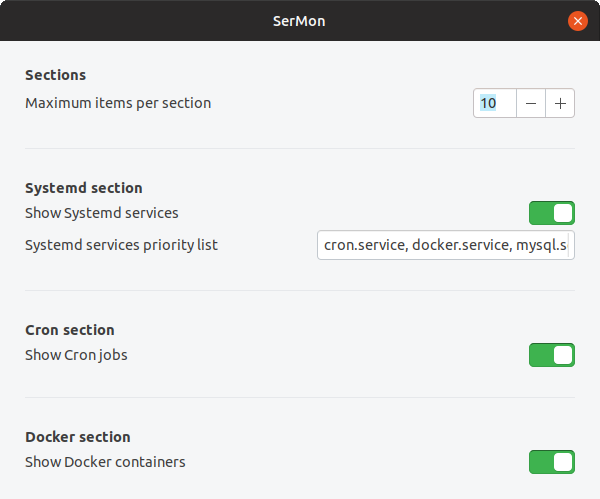
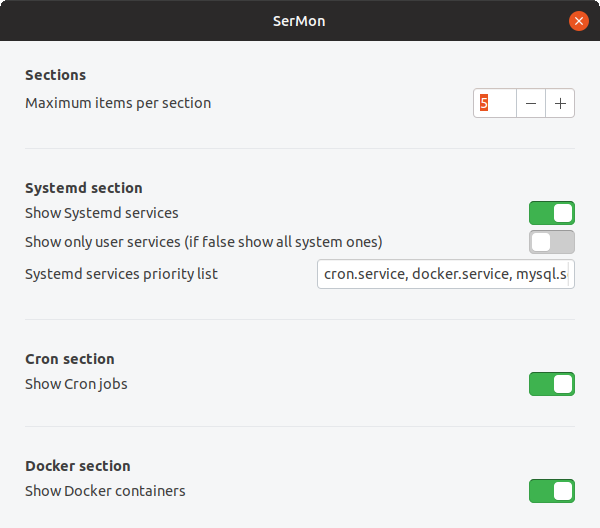
Add option to filter systemd services per system or user

diff --git a/src/data/systemdRepository.js b/src/data/systemdRepository.js
@@ -9,10 +9,13 @@ const Settings = Me.imports.src.data.settings;
 const LOGTAG = "SystemdRepository";
 
 const PROGRAM = "systemctl";
-const COMMAND_LIST_ALL = "systemctl list-units --type=service --all";
+const COMMAND_LIST_ALL = "systemctl list-units --type=service --all --system";
+const COMMAND_LIST_USER = "systemctl list-units --type=service --all --user";
 const COMMAND_TEMPLATE_ID_PARAM = "%id%";
 const COMMAND_TEMPLATE_START = `systemctl start ${COMMAND_TEMPLATE_ID_PARAM} --type=service`;
+const COMMAND_TEMPLATE_START_USER = `systemctl start ${COMMAND_TEMPLATE_ID_PARAM} --type=service --user`;
 const COMMAND_TEMPLATE_STOP = `systemctl stop ${COMMAND_TEMPLATE_ID_PARAM} --type=service`;
+const COMMAND_TEMPLATE_STOP_USER = `systemctl stop ${COMMAND_TEMPLATE_ID_PARAM} --type=service --user`;
 const LIST_ROWS_SEPARATOR = "\n";
 const LIST_COLUMNS_SEPARATOR = " ";
 const LIST_EMPTY_LINE = "";
@@ -38,7 +41,8 @@ var isSystemdInstalled = () => CommandLine.find(PROGRAM) !== null;
  */
 /* exported getServices */
 var getServices = () => new Promise((resolve, reject) => {
-    CommandLine.execute(COMMAND_LIST_ALL)
+    const command = Settings.shouldFilterSystemdUserServices() ? COMMAND_LIST_USER : COMMAND_LIST_ALL;
+    CommandLine.execute(command)
         .then(result => {
             const services = parseServices(result)
                 .sort((item1, item2) => _sortByRunningStatus(item1, item2))
@@ -60,7 +64,10 @@ var getServices = () => new Promise((resolve, reject) => {
  * @return {Promise} resolves if systemd service is started, or fails if an error occur
  */
 /* exported startService */
-var startService = (id) => _runCommandFromTemplate(COMMAND_TEMPLATE_START, id);
+var startService = (id) => _runCommandFromTemplate(
+    Settings.shouldFilterSystemdUserServices() ? COMMAND_TEMPLATE_START_USER : COMMAND_TEMPLATE_START,
+    id
+);
 
 /**
  * Stop systemd service.
@@ -69,7 +76,10 @@ var startService = (id) => _runCommandFromTemplate(COMMAND_TEMPLATE_START, id);
  * @return {Promise} resolves if systemd service is started, or fails if an error occur
  */
 /* exported stopService */
-var stopService = (id) => _runCommandFromTemplate(COMMAND_TEMPLATE_STOP, id);
+var stopService = (id) => _runCommandFromTemplate(
+    Settings.shouldFilterSystemdUserServices() ? COMMAND_TEMPLATE_STOP_USER : COMMAND_TEMPLATE_STOP,
+    id
+);
 
 const _runCommandFromTemplate = (commandTemplate, id) => new Promise((resolve, reject) => {
     const command = commandTemplate.replace(COMMAND_TEMPLATE_ID_PARAM, id);
@@ -89,8 +99,10 @@ const _runCommandFromTemplate = (commandTemplate, id) => new Promise((resolve, r
 const _buildCommandMessageFromTemplate = (commandTemplate) => {
     switch (commandTemplate) {
     case COMMAND_TEMPLATE_START:
+    case COMMAND_TEMPLATE_START_USER:
         return "started";
     case COMMAND_TEMPLATE_STOP:
+    case COMMAND_TEMPLATE_STOP_USER:
         return "stopped";
     default:
         return "???";

diff --git a/test/data/systemdRepositoryTest.js b/test/data/systemdRepositoryTest.js
@@ -3,7 +3,7 @@
 // Import dummy/fake Gjs implementations:
 imports.searchPath.push("./test/util/fake");
 const CommandLineMock = imports.misc.Me.imports.src.data.datasource.commandLine;
-//const SettingsMock = imports.misc.Me.imports.src.data.settings;
+const SettingsMock = imports.misc.Me.imports.src.data.settings;
 
 const GjsMockito = imports.test.util.gjsMockito;
 const when = GjsMockito.when;
@@ -16,6 +16,8 @@ function testSuite() {
 
     const ANY_PATH = "~/any/path/to/systemd";
     const NO_PATH = null;
+    const ALL_SERVICES = false;
+    const ONLY_USER_SERVICES = true;
     const ANY_SERVICES = 
         "UNIT                                                                                      LOAD   ACTIVE SUB     DESCRIPTION\n" +
         "apparmor.service                                                                          loaded    active   exited  AppArmor initialization\n" +
@@ -58,14 +60,26 @@ function testSuite() {
     });
 
     describe("SystemdRepository.getServices()", () => {
-        it("when retrieving the systemd services, systemctl list is executed", () => {
+        it("when retrieving all systemd services, systemctl list-units --system is executed", () => {
             const anyResolvedPromise = new Promise((resolve) => resolve(ANY_SERVICES));
             when(CommandLineMock, "execute").thenReturn(anyResolvedPromise);
+            when(SettingsMock, "shouldFilterSystemdUserServices").thenReturn(ALL_SERVICES);
 
             sut.getServices()
                 .catch(_ => {});
 
-            expectMock(CommandLineMock, "execute").toHaveBeenCalledWith("systemctl list-units --type=service --all");
+            expectMock(CommandLineMock, "execute").toHaveBeenCalledWith("systemctl list-units --type=service --all --system");
+        });
+
+        it("when retrieving only systemd user services, systemctl list-units --user is executed", () => {
+            const anyResolvedPromise = new Promise((resolve) => resolve(ANY_SERVICES));
+            when(CommandLineMock, "execute").thenReturn(anyResolvedPromise);
+            when(SettingsMock, "shouldFilterSystemdUserServices").thenReturn(ONLY_USER_SERVICES);
+
+            sut.getServices()
+                .catch(_ => {});
+
+            expectMock(CommandLineMock, "execute").toHaveBeenCalledWith("systemctl list-units --type=service --all --user");
         });
 
         // it("when no systemd service is found, returns an error", () => {});

diff --git a/prefs.js b/prefs.js
@@ -33,6 +33,7 @@ const _bindWidgetToSettings = (builder) => {
     const settings = Convenience.getSettings();
     settings.bind("max-items-per-section", builder.get_object("field_max_items_per_section"), "value", Gio.SettingsBindFlags.DEFAULT);
     settings.bind("systemd-section-enabled", builder.get_object("field_systemd_section_enabled"), "active", Gio.SettingsBindFlags.DEFAULT);
+    settings.bind("systemd-section-filter-user-services", builder.get_object("field_systemd_section_filter_user_services"), "active", Gio.SettingsBindFlags.DEFAULT);
     settings.bind("systemd-section-items-priority-list", builder.get_object("field_systemd_section_items_priority_list"), "text", Gio.SettingsBindFlags.DEFAULT);
     settings.bind("cron-section-enabled", builder.get_object("field_cron_section_enabled"), "active", Gio.SettingsBindFlags.DEFAULT);
     settings.bind("docker-section-enabled", builder.get_object("field_docker_section_enabled"), "active", Gio.SettingsBindFlags.DEFAULT);

diff --git a/src/data/settings.js b/src/data/settings.js
@@ -12,6 +12,9 @@ var getMaxItemsPerSection = () => Convenience.getSettings().get_int("max-items-p
 /* exported isSystemdSectionEnabled */
 var isSystemdSectionEnabled = () => Convenience.getSettings().get_boolean("systemd-section-enabled");
 
+/* exported shouldFilterSystemdUserServices */
+var shouldFilterSystemdUserServices = () => Convenience.getSettings().get_boolean("systemd-section-filter-user-services");
+
 /* exported getSystemdSectionItemsPriorityList */
 var getSystemdSectionItemsPriorityList = () => mapCommaSeparatedListIntoArray(
     Convenience.getSettings().get_string("systemd-section-items-priority-list")

diff --git a/test/util/fake/misc.js b/test/util/fake/misc.js
@@ -45,6 +45,7 @@ var Me = {
                 settings: mock("Settings", [
                     "getMaxItemsPerSection",
                     "isSystemdSectionEnabled",
+                    "shouldFilterSystemdUserServices",
                     "getSystemdSectionItemsPriorityList",
                     "isCronSectionEnabled",
                     "isDockerSectionEnabled"

diff --git a/README.md b/README.md
@@ -103,7 +103,7 @@ MenuPresenter.onDestroy()
 
 ...
 
-✔ 199 completed
+✔ 201 completed
 ```
 **NOTE:** This is using [`gjsunit`](https://github.com/philipphoffmann/gjsunit) under-the-hood.
 
